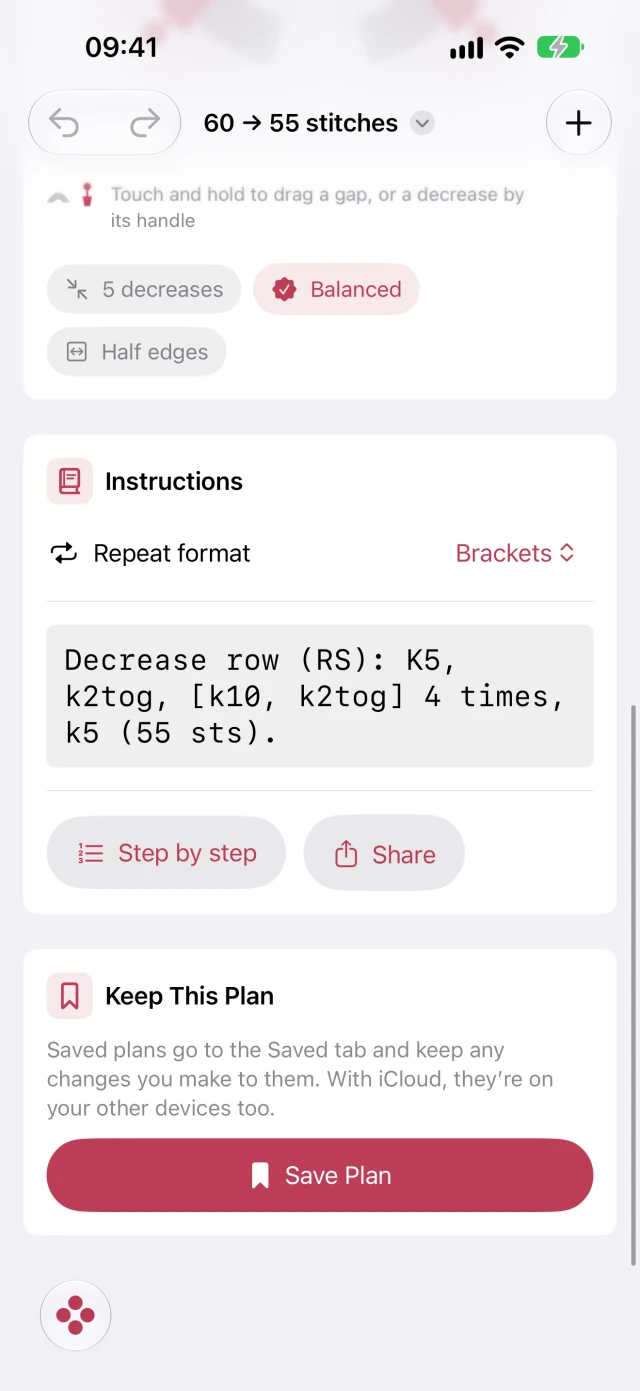
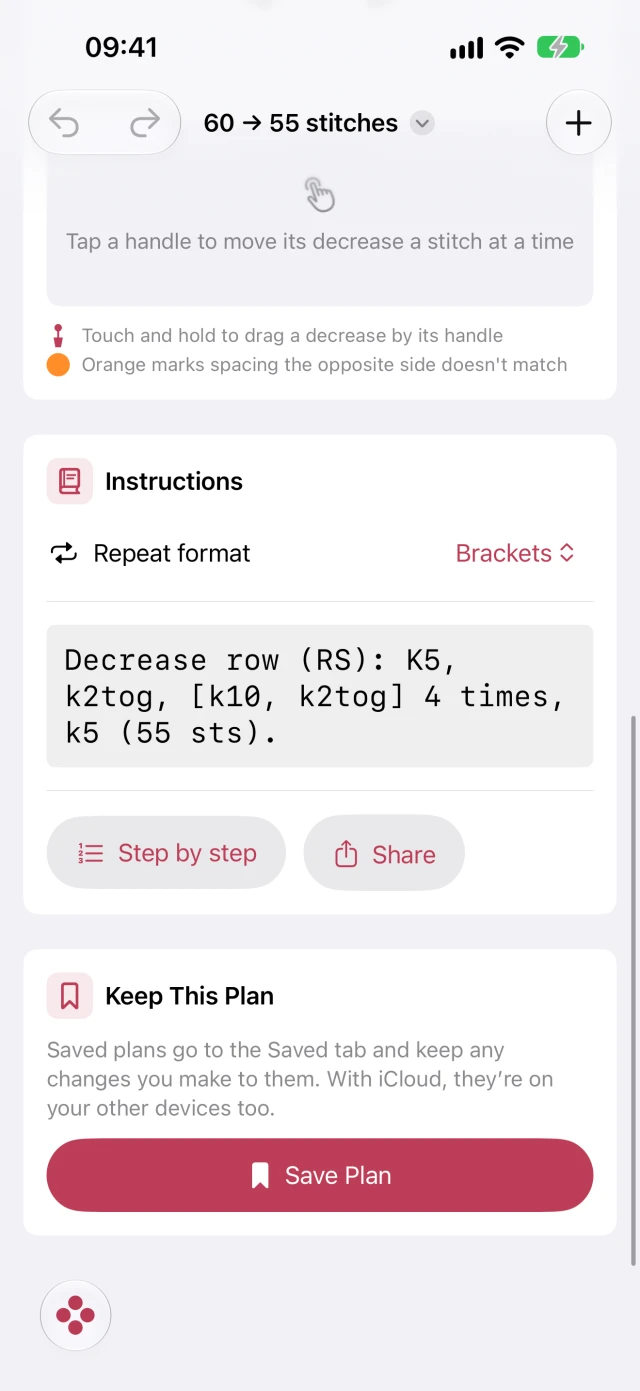
feat(site): update landing page for lock, rebalance and selection panel
The Stitches app changed in commits 5369bad to a3bdd7c. Gap dragging
was removed, points can now be locked and the rest rebalanced, spacing
that no longer mirrors is marked orange, a selection panel replaced
the counts drawn inside the ring, and saved plans open straight in the
planner. The copy still described moving whole gaps and showed the old
diagram, so it no longer matched the app.

The feature, flexibility, saved-plan and accessibility copy and the
screenshot alt text now describe the current behaviour. The five
screenshots were converted again from the raw captures at a3bdd7c. The
README evidence table now points to the new source locations, and it
records the 25 September content check and WebKit verification.

The built docs/ copy also picks up the closing-section wording from
the previous commit.

diff --git a/docs/index.html b/docs/index.html
@@ -109,7 +109,7 @@
           </li>
           <li>
             <strong>Move them around</strong
-            ><span>Drag any increase or decrease</span>
+            ><span>Drag, nudge or lock in place</span>
           </li>
           <li>
             <strong>Written out</strong><span>A row you can knit or share</span>
@@ -137,8 +137,9 @@
               Enter your stitch count and how many stitches to increase or
               decrease. Say whether you’re knitting flat or in the round, pick
               the increase or decrease you’re using, and for a flat row, how
-              much to leave at each edge. Stitches shows how many to knit
-              between each one and how many you’ll have at the end.
+              much to leave at each edge. Stitches spaces them evenly, draws
+              where each one falls and tells you how many you’ll have at the
+              end.
             </p>
           </div>
           <div class="feature-shot">
@@ -147,7 +148,7 @@
                 src="/shot-decreases.webp"
                 width="640"
                 height="1391"
-                alt="A flat row of 60 stitches with five k2tog decreases and half edges, going down to 55 stitches, with ten stitches between each decrease."
+                alt="A flat row of 60 stitches with five k2tog decreases and half edges, going down to 55 stitches, with the decreases spaced evenly around the diagram."
                 loading="lazy"
                 decoding="async"
               />
@@ -162,9 +163,11 @@
             <p>
               Even isn’t always right. A decrease might land in the middle of a
               cable, or you might want it lined up with the lace below. Touch
-              and hold a decrease to slide it along a stitch at a time; the gaps
-              on either side give and take. Or pick up a whole gap and put it
-              somewhere else. The written row changes to match, and you can undo
+              and hold a decrease to slide it along, or tap it and step it a
+              stitch at a time; the gaps on either side give and take. Lock the
+              ones that have to stay put, and rebalance to space the rest evenly
+              around them. Orange shows where one side no longer mirrors the
+              other. The written row changes to match, and you can undo
               anything.
             </p>
           </div>
@@ -174,7 +177,7 @@
                 src="/shot-rearrange.webp"
                 width="640"
                 height="1391"
-                alt="The same decrease row rearranged by hand, with two gaps of five stitches among gaps of ten, and one decrease selected to nudge a stitch at a time."
+                alt="The same decrease row after the first decrease was stepped two stitches along. The panel under the diagram shows Decrease 1 with 7 stitches before and 8 after, with Lock and step buttons, orange marks the spacing that no longer mirrors, and a Rebalance Spacing button sits below."
                 loading="lazy"
                 decoding="async"
               />
@@ -213,9 +216,10 @@
             <p class="eyebrow">04 / Keep it</p>
             <h3>Pick up the plan when you pick up your knitting.</h3>
             <p>
-              Save a plan under your project’s name and change it later if you
-              need to. With iCloud, your saved plans are on both your iPhone and
-              iPad, ready when you reach that part of the pattern.
+              Save a plan under your project’s name. Tap it later and it opens
+              straight in the planner, where every change you make is kept. With
+              iCloud, your saved plans are on both your iPhone and iPad, ready
+              when you reach that part of the pattern.
             </p>
           </div>
           <div class="feature-shot">
@@ -267,9 +271,11 @@
             <span class="card-number">03</span>
             <h3>Fingers, buttons or VoiceOver</h3>
             <p>
-              Drag on the diagram, or tap a gap or a decrease and nudge it with
-              the arrow buttons. VoiceOver reads out every gap and can move it,
-              and the text follows your device’s text size.
+              Drag a handle on the diagram, or tap it and nudge it with the
+              arrow buttons. Tap a gap to see its count. VoiceOver reads out
+              every gap and handle, says when the spacing is out of balance, and
+              can move or lock any increase or decrease. The text follows your
+              device’s text size.
             </p>
           </li>
           <li class="card">
@@ -331,7 +337,7 @@
         <h2 id="closer-title">Less counting. More knitting.</h2>
         <p>
           For the row after the ribbing, the yoke, the hat crown, and anywhere
-          else a pattern says “evenly.”
+          else a pattern could say “evenly”.
         </p>
         <span class="btn btn-secondary">Coming to the App Store</span>
         <p class="availability">For iPhone and iPad · One-time purchase</p>

diff --git a/index.html b/index.html
@@ -109,7 +109,7 @@
           </li>
           <li>
             <strong>Move them around</strong
-            ><span>Drag any increase or decrease</span>
+            ><span>Drag, nudge or lock in place</span>
           </li>
           <li>
             <strong>Written out</strong><span>A row you can knit or share</span>
@@ -137,8 +137,9 @@
               Enter your stitch count and how many stitches to increase or
               decrease. Say whether you’re knitting flat or in the round, pick
               the increase or decrease you’re using, and for a flat row, how
-              much to leave at each edge. Stitches shows how many to knit
-              between each one and how many you’ll have at the end.
+              much to leave at each edge. Stitches spaces them evenly, draws
+              where each one falls and tells you how many you’ll have at the
+              end.
             </p>
           </div>
           <div class="feature-shot">
@@ -147,7 +148,7 @@
                 src="/shot-decreases.webp"
                 width="640"
                 height="1391"
-                alt="A flat row of 60 stitches with five k2tog decreases and half edges, going down to 55 stitches, with ten stitches between each decrease."
+                alt="A flat row of 60 stitches with five k2tog decreases and half edges, going down to 55 stitches, with the decreases spaced evenly around the diagram."
                 loading="lazy"
                 decoding="async"
               />
@@ -162,9 +163,11 @@
             <p>
               Even isn’t always right. A decrease might land in the middle of a
               cable, or you might want it lined up with the lace below. Touch
-              and hold a decrease to slide it along a stitch at a time; the gaps
-              on either side give and take. Or pick up a whole gap and put it
-              somewhere else. The written row changes to match, and you can undo
+              and hold a decrease to slide it along, or tap it and step it a
+              stitch at a time; the gaps on either side give and take. Lock the
+              ones that have to stay put, and rebalance to space the rest evenly
+              around them. Orange shows where one side no longer mirrors the
+              other. The written row changes to match, and you can undo
               anything.
             </p>
           </div>
@@ -174,7 +177,7 @@
                 src="/shot-rearrange.webp"
                 width="640"
                 height="1391"
-                alt="The same decrease row rearranged by hand, with two gaps of five stitches among gaps of ten, and one decrease selected to nudge a stitch at a time."
+                alt="The same decrease row after the first decrease was stepped two stitches along. The panel under the diagram shows Decrease 1 with 7 stitches before and 8 after, with Lock and step buttons, orange marks the spacing that no longer mirrors, and a Rebalance Spacing button sits below."
                 loading="lazy"
                 decoding="async"
               />
@@ -213,9 +216,10 @@
             <p class="eyebrow">04 / Keep it</p>
             <h3>Pick up the plan when you pick up your knitting.</h3>
             <p>
-              Save a plan under your project’s name and change it later if you
-              need to. With iCloud, your saved plans are on both your iPhone and
-              iPad, ready when you reach that part of the pattern.
+              Save a plan under your project’s name. Tap it later and it opens
+              straight in the planner, where every change you make is kept. With
+              iCloud, your saved plans are on both your iPhone and iPad, ready
+              when you reach that part of the pattern.
             </p>
           </div>
           <div class="feature-shot">
@@ -267,9 +271,11 @@
             <span class="card-number">03</span>
             <h3>Fingers, buttons or VoiceOver</h3>
             <p>
-              Drag on the diagram, or tap a gap or a decrease and nudge it with
-              the arrow buttons. VoiceOver reads out every gap and can move it,
-              and the text follows your device’s text size.
+              Drag a handle on the diagram, or tap it and nudge it with the
+              arrow buttons. Tap a gap to see its count. VoiceOver reads out
+              every gap and handle, says when the spacing is out of balance, and
+              can move or lock any increase or decrease. The text follows your
+              device’s text size.
             </p>
           </li>
           <li class="card">

diff --git a/README.md b/README.md
@@ -15,37 +15,42 @@ The social preview image is generated from the site icon and headline with `sh s
 
 ## Content checks
 
-The copy and privacy policy were checked against the Stitches app on 23 September 2026, and the copy again on 24 September 2026. The round diagram can be turned so the marker sits top, bottom, left or right, but that is a display preference only (`../Stitches/Stitches/Views/Planner/Track/PlanTrackView.swift:36`) and does not change the written round, so the page does not claim you can move the beginning of the round. Paths below are relative to the site directory.
+The copy and privacy policy were checked against the Stitches app on 23 September 2026, and the copy again on 24 and 25 September 2026. The 25 September check followed the app changes in `../Stitches` commits `5369bad` to `a3bdd7c`: gap dragging was removed, points can be locked and the rest rebalanced, spacing that doesn't mirror is marked orange, a selection panel replaced the counts drawn inside the ring, and saved plans open straight in the planner. The round diagram can be turned so the marker sits top, bottom, left or right, but that is a display preference only (`../Stitches/Stitches/Views/Planner/Track/PlanTrackView.swift:42-44`) and does not change the written round, so the page does not claim you can move the beginning of the round. Paths below are relative to the site directory.
 
-| Page claim                                                                     | App evidence                                                                                                                                                                                    |
-| ------------------------------------------------------------------------------ | ----------------------------------------------------------------------------------------------------------------------------------------------------------------------------------------------- |
-| Increases and decreases, with three decrease and six increase stitches         | `../Stitches/Stitches/Models/ShapingTechnique.swift:12-32`, abbreviations at `:79-98`                                                                                                           |
-| M1 and yarn over sit between stitches; kfb and pfb consume one                 | `../Stitches/Stitches/Models/ShapingTechnique.swift:36-50`                                                                                                                                      |
-| Flat row and round support                                                     | `../Stitches/Stitches/Models/WorkingStyle.swift:3-29`                                                                                                                                           |
-| Half-width or equal row edge gaps                                              | `../Stitches/Stitches/Models/EdgeSpacing.swift:3-34`                                                                                                                                            |
-| Moving a point changes only the two gaps beside it; a gap can be moved whole   | `../Stitches/Stitches/Models/ShapingShift.swift:3-8,70-80`; `../Stitches/Stitches/Models/GapArrangement.swift:62-71`; `../Stitches/Stitches/Views/Planner/Track/TrackInteraction.swift:485-721` |
-| Tap a gap or point and nudge it with the arrow buttons                         | `../Stitches/Stitches/Views/Planner/Track/TrackInteraction.swift:468-483`; `../Stitches/Stitches/Views/Planner/Track/TrackControls.swift:7-8,52`                                                |
-| Purl techniques purl the plain stitches                                        | `../Stitches/Stitches/Models/ShapingTechnique.swift:66-75`                                                                                                                                      |
-| Equal edges suit an open front or a picked-up band                             | `../Stitches/Stitches/Models/EdgeSpacing.swift:11-13`                                                                                                                                           |
-| A round is mirrored about its marker when the counts allow                     | `../Stitches/Stitches/Services/ShapingPlanner.swift:164-199`                                                                                                                                    |
-| Example row "Decrease row (RS): K5, k2tog, [k10, k2tog] 4 times, k5 (55 sts)." | `../Stitches/StitchesTests/PatternFormatterTests.swift:15`; shown in `public/shot-pattern.webp`                                                                                                 |
-| Brackets, parentheses and asterisks                                            | `../Stitches/Stitches/Models/RepeatNotationStyle.swift:3-31`                                                                                                                                    |
-| Step-by-step instructions and sharing                                          | `../Stitches/Stitches/Views/Planner/Pattern/PatternCard.swift:62-79`, `../Stitches/Stitches/Views/Planner/Pattern/InstructionStepsView.swift:12-30`                                             |
-| Saved plans sync through the user's private iCloud database                    | `../Stitches/Stitches/Services/StoreBootstrap.swift:74-77`; app description at `../Stitches/ASO.md:224-233`                                                                                     |
-| VoiceOver controls for the diagram                                             | `../Stitches/Stitches/Views/Planner/Track/Accessibility/TrackAccessibilityLayer.swift:3-5,29-79`                                                                                                |
-| No app account, analytics, ads, tracking or third-party SDKs                   | `../Stitches/Documentation/ReleaseVerification.md:167-175`; `../Stitches/ASO.md:229-233`                                                                                                        |
-| iOS 18 and iPhone/iPad support                                                 | `../Stitches/Stitches.xcodeproj/project.pbxproj:279,293,317,331`                                                                                                                                |
-| One-time purchase plan                                                         | `../Stitches/ASO.md:694-696`                                                                                                                                                                    |
+| Page claim                                                                       | App evidence                                                                                                                                                                                                       |
+| -------------------------------------------------------------------------------- | ------------------------------------------------------------------------------------------------------------------------------------------------------------------------------------------------------------------ |
+| Increases and decreases, with three decrease and six increase stitches           | `../Stitches/Stitches/Models/ShapingTechnique.swift:12-32`, abbreviations at `:79-98`                                                                                                                              |
+| M1 and yarn over sit between stitches; kfb and pfb consume one                   | `../Stitches/Stitches/Models/ShapingTechnique.swift:36-50`                                                                                                                                                         |
+| Flat row and round support                                                       | `../Stitches/Stitches/Models/WorkingStyle.swift:3-29`                                                                                                                                                              |
+| Half-width or equal row edge gaps                                                | `../Stitches/Stitches/Models/EdgeSpacing.swift:3-34`                                                                                                                                                               |
+| Moving a point changes only the two gaps beside it; gaps are selected, not moved | `../Stitches/Stitches/Models/ShapingShift.swift:3-8,89-106`; `../Stitches/Stitches/Views/Planner/Track/TrackInteraction.swift:12-13,160-168`                                                                       |
+| Tap a handle and nudge it with the arrow buttons; tap a gap to see its count     | `../Stitches/Stitches/Models/TrackFocus.swift:1-6,18-19`; `../Stitches/Stitches/Views/Planner/Track/TrackSelectionPanel.swift:3-10,295-296`                                                                        |
+| Lock a point in place and rebalance the rest around it, with undo                | `../Stitches/Stitches/Models/ShapingLocks.swift:3-9`; `../Stitches/Stitches/Services/ShapingRebalancer.swift:3-8`; `../Stitches/Stitches/ViewModels/PlannerSession.swift:362-381`                                  |
+| Orange shows where one side no longer mirrors the other                          | `../Stitches/Stitches/Models/TrackBalance.swift:1-6`; legend at `../Stitches/Stitches/Views/Planner/Track/TrackInstructionLegend.swift:31`                                                                         |
+| Purl techniques purl the plain stitches                                          | `../Stitches/Stitches/Models/ShapingTechnique.swift:66-75`                                                                                                                                                         |
+| Equal edges suit an open front or a picked-up band                               | `../Stitches/Stitches/Models/EdgeSpacing.swift:11-13`                                                                                                                                                              |
+| A round is mirrored about its marker when the counts allow                       | `../Stitches/Stitches/Services/ShapingPlanner.swift:176-231` (otherwise mirrored half a stitch past the marker)                                                                                                    |
+| Example row "Decrease row (RS): K5, k2tog, [k10, k2tog] 4 times, k5 (55 sts)."   | `../Stitches/StitchesTests/PatternFormatterTests.swift:15`; shown in `public/shot-pattern.webp`                                                                                                                    |
+| Brackets, parentheses and asterisks                                              | `../Stitches/Stitches/Models/RepeatNotationStyle.swift:3-31`                                                                                                                                                       |
+| Step-by-step instructions and sharing                                            | `../Stitches/Stitches/Views/Planner/Pattern/PatternCard.swift:68-77`, `../Stitches/Stitches/Views/Planner/Pattern/InstructionStepsView.swift:12-30`                                                                |
+| A saved plan opens straight in the planner and keeps every change                | `../Stitches/Stitches/Views/Library/SavedPlansView.swift:44,97`; `../Stitches/Stitches/Views/Planner/PlannerScreen.swift:8-9`; locks saved at `../Stitches/Stitches/Models/SavedPlan.swift:20`                     |
+| Saved plans sync through the user's private iCloud database                      | `../Stitches/Stitches/Services/StoreBootstrap.swift:74-78`; app description at `../Stitches/ASO.md:267,273`                                                                                                        |
+| VoiceOver reads gaps and handles, flags imbalance, moves and locks handles       | `../Stitches/Stitches/Views/Planner/Track/Accessibility/TrackAccessibilityLayer.swift:3-7,30-70`; `../Stitches/Stitches/Views/Planner/Track/Accessibility/TrackShapingAccessibilityElement.swift:3-11,40-44,64-71` |
+| No app account, analytics, ads, tracking or third-party SDKs                     | `../Stitches/Documentation/ReleaseVerification.md:171-172`; `../Stitches/ASO.md:272-273`                                                                                                                           |
+| iOS 18 and iPhone/iPad support                                                   | `../Stitches/Stitches.xcodeproj/project.pbxproj:279,293,317,331`                                                                                                                                                   |
+| One-time purchase plan                                                           | `../Stitches/ASO.md:776`                                                                                                                                                                                           |
 
 Apple's [CloudKit private database documentation](https://developer.apple.com/documentation/cloudkit/ckcontainer/privateclouddatabase) confirms that user records are not visible in the developer portal. Apple also says [deleting an app does not remove its iCloud data](https://support.apple.com/guide/iphone/remove-or-delete-apps-iph248b543ca/ios), and describes how to [review and delete third-party app data in iCloud](https://support.apple.com/guide/icloud/keep-third-party-app-data-up-to-date-mm62d92d6b3e/icloud). These are the basis for the policy's iCloud and deletion wording.
 
 The screenshots in `public/` are resized WebP copies of `../Stitches/screenshots/raw/iPhone/`. The app icon comes from `../Stitches/Stitches/Assets.xcassets/AppIcon.appiconset/Stitches-Light.png`.
 
-The screenshots were regenerated on 24 September 2026 with `swift scripts/generate-screenshots.swift` in the app repository, after the saved-plan names in `../Stitches/StitchesUITests/Screenshots/ScreenshotUITests.swift` were changed to ones knitters would use evenly spaced shaping for (Body After Ribbing, Hat Crown, Cardigan Yoke). `shot-rearrange`, `shot-pattern` and `shot-library` come from that run; The raw captures behind `shot-decreases`, `shot-increases` and `shot-round` came out byte-identical in that run, so those WebP files were kept. Conversion: `cwebp -q 90 -resize 640 1391 <raw>.png -o public/<name>.webp`. The step-by-step capture is no longer shown; the pattern capture shows the written row and the Step by step and Share buttons.
+The screenshots were regenerated on 24 September 2026 with `swift scripts/generate-screenshots.swift` in the app repository, after the saved-plan names in `../Stitches/StitchesUITests/Screenshots/ScreenshotUITests.swift` were changed to ones knitters would use evenly spaced shaping for (Body After Ribbing, Hat Crown, Cardigan Yoke). The step-by-step capture is no longer shown; the pattern capture shows the written row and the Step by step and Share buttons.
+
+On 25 September 2026, `shot-decreases`, `shot-rearrange`, `shot-increases`, `shot-round` and `shot-pattern` were converted again from the raw captures committed in `../Stitches` at `a3bdd7c` (the ring no longer draws gap counts, and the selection panel, Rebalance Spacing button and orange balance key are new). `shot-rearrange` now shows the first decrease stepped two stitches along with the panel's buttons (7 before, 8 after), not a gap moved by hand. The raw library capture had not changed since the 24 September run, and re-encoding it produced a byte-identical `shot-library.webp`, so it was kept. Conversion: `cwebp -q 90 -resize 640 1391 <raw>.png -o public/<name>.webp`.
 
 ## Site verification
 
-On 23 September 2026, the page built successfully with Vite 8.2.2 (rebuilt with Vite 8.3.0 on 24 September 2026), matching `package-lock.json`. The built page's local asset paths and section links were checked, and `docs/CNAME` matched the intended domain. WebKit screenshots were inspected at 1440 × 900, 390 × 844 and 320 × 700 CSS pixels. At both phone widths, the document scroll width equaled the viewport width.
+On 23 September 2026, the page built successfully with Vite 8.2.2 (rebuilt with Vite 8.3.0 on 24 September 2026), matching `package-lock.json`. The built page's local asset paths and section links were checked, and `docs/CNAME` matched the intended domain. WebKit screenshots were inspected at 1440 × 900, 390 × 844 and 320 × 700 CSS pixels. At both phone widths, the document scroll width equaled the viewport width. On 25 September 2026, after the copy and screenshot update, the page was rebuilt with Vite 8.3.0 and checked again in WebKit at the same three sizes: every image loaded, and at every width the document scroll width equaled the viewport width.
 
 ## Before launch
 
